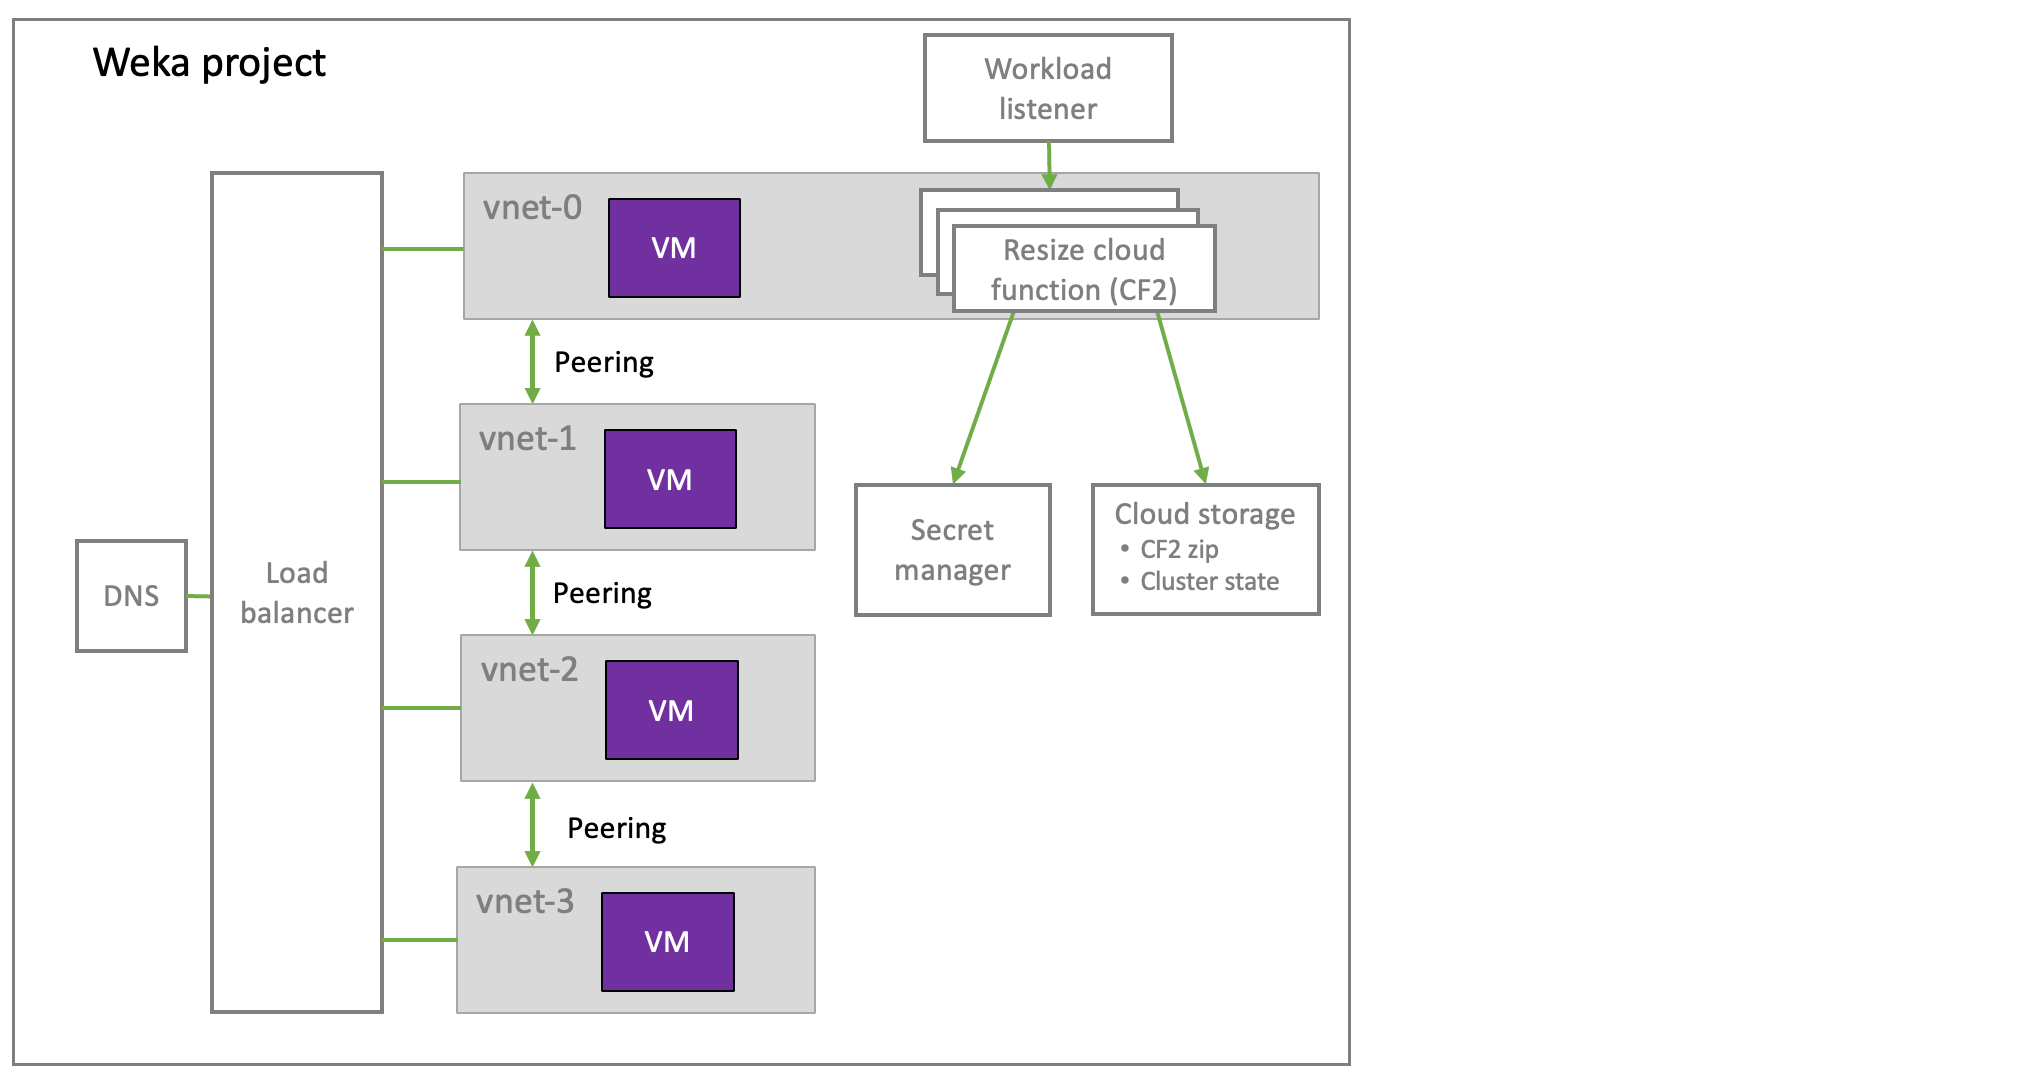
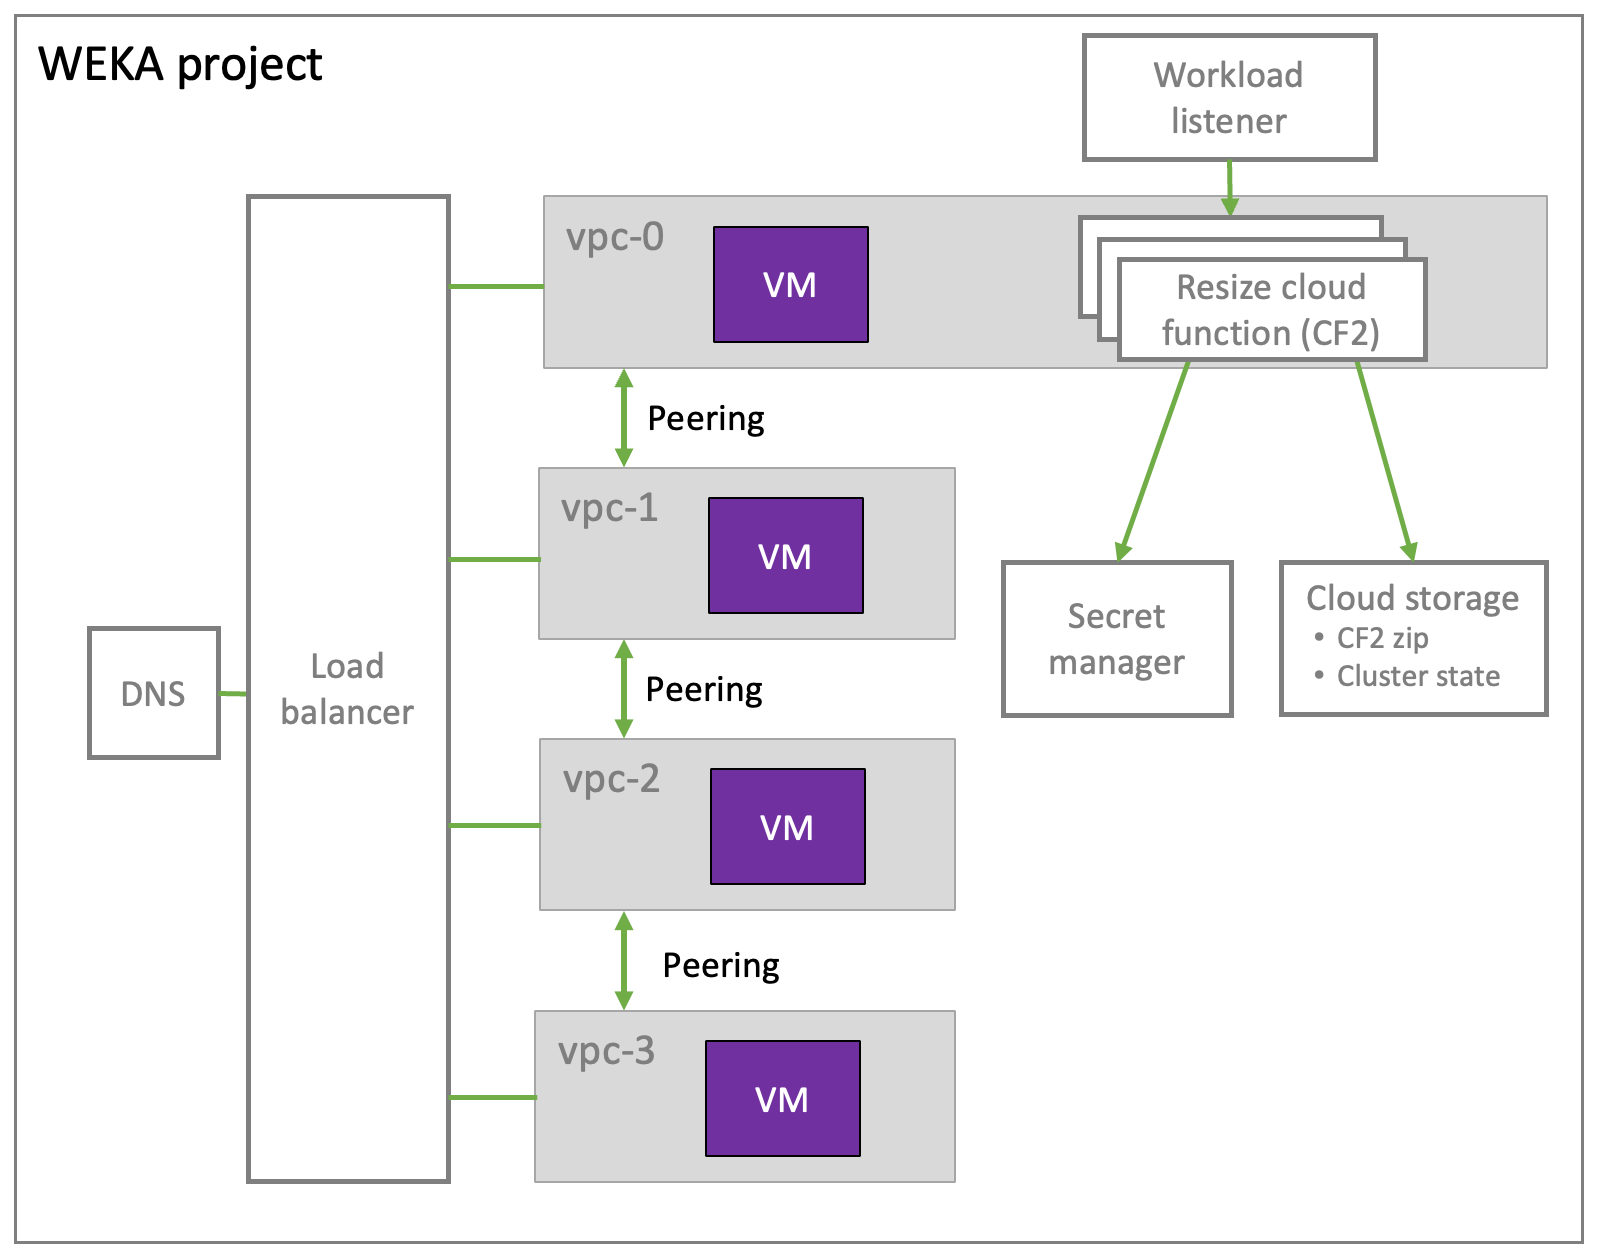
GITBOOK-497: mike.burbey's Jan 12 changes

Changed region(s): [[0.0, 0.0, 0.9675, 1.0]]

diff --git a/install/weka-installation-on-gcp/weka-project-description.md b/install/weka-installation-on-gcp/weka-project-description.md
@@ -1,12 +1,12 @@
 # WEKA project description
 
-The WEKA project ultimately uses the internal GCP resources. A basic WEKA project includes a cluster with a few virtual networks (vnet), VMs (instances), a load balancer, DNS, cloud storage, a secret manager, and a few more elements that manage the resize of the cluster. The peering between all the virtual networks enables running the functions across all the networks.
+The WEKA project ultimately uses the internal GCP resources. A basic WEKA project includes a cluster with a few VPCs[^1], VMs (instances), a load balancer, DNS, cloud storage, a secret manager, and a few more elements that manage the resize of the cluster. The peering between all the VPCs enables running the functions across all the networks.
 
-<figure><img src="../../.gitbook/assets/GCP_puplic_network.png" alt=""><figcaption><p>Weka project on the GCP</p></figcaption></figure>
+<figure><img src="../../.gitbook/assets/GCP_puplic_network.png" alt="" width="563"><figcaption><p>WEKA project on the GCP</p></figcaption></figure>
 
 ### Resize cloud function operation
 
-A resize cloud function in vnet-0 and a workload listener are deployed for auto-scale instances in GCP. Once a user sends a [request for resizing](auto-scale-instances-in-gcp.md) the number of instances in the cluster, the workload listener checks the _cluster state_ file in the cloud storage and triggers the resize cloud function if a resize is required. The cluster state file is an essential part of the resizing decision. It indicates states such as:
+A resize cloud function in vpc-0 and a workload listener are deployed for auto-scale instances in GCP. Once a user sends a [request for resizing](auto-scale-instances-in-gcp.md) the number of instances in the cluster, the workload listener checks the _cluster state_ file in the cloud storage and triggers the resize cloud function if a resize is required. The cluster state file is an essential part of the resizing decision. It indicates states such as:
 
 * Readiness of the cluster.
 * The number of existing instances.
@@ -22,6 +22,8 @@ Depending on the required security level, you can deploy the WEKA project on one
 * **Private subnet shared with a Bastion project:** Create a private subnet with a shared project with a Bastion project, a risk-based security solution used for authenticating communication with a public network, such as downloading the WEKA software from get.weka.io. The Bastion project includes a Bastion VM (host) acting as a network gateway. The relevant ports are open (by the Terraform files).&#x20;
 * **Private subnet shared with a yum project:** If a connection to get.weka.io for downloading the WEKA software is impossible, create a private subnet with a yum repository containing the WEKA software. The relevant ports are open (by the Terraform files).
 
-<figure><img src="../../.gitbook/assets/GCP_weka_with_bastion_project.png" alt=""><figcaption><p>Private subnet shared with a Bastion project </p></figcaption></figure>
+<figure><img src="../../.gitbook/assets/GCP_weka_with_bastion_project.png" alt="" width="563"><figcaption><p>Private subnet shared with a Bastion project </p></figcaption></figure>
 
-<figure><img src="../../.gitbook/assets/GCP_weka_with_yum_project.png" alt=""><figcaption><p>Private subnet shared with a yum project </p></figcaption></figure>
+<figure><img src="../../.gitbook/assets/GCP_weka_with_yum_project.png" alt="" width="563"><figcaption><p>Private subnet shared with a Yum project </p></figcaption></figure>
+
+[^1]: Virtual Private Cloud (VPC) provides networking functionality to Compute Engine virtual machine (VM) instances, Google Kubernetes Engine (GKE) clusters, and serverless workloads. VPC provides networking for your cloud-based resources and services that is global, scalable, and flexible. For more details, see [Virtual Private Cloud (VPC) overview](https://cloud.google.com/vpc/docs/overview).
